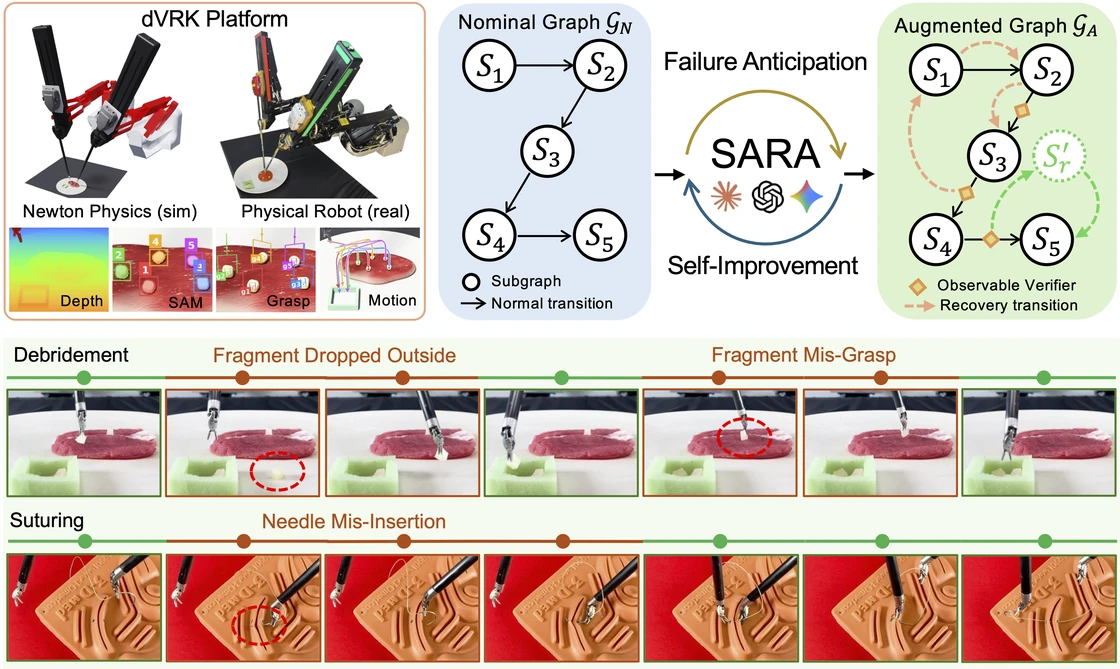
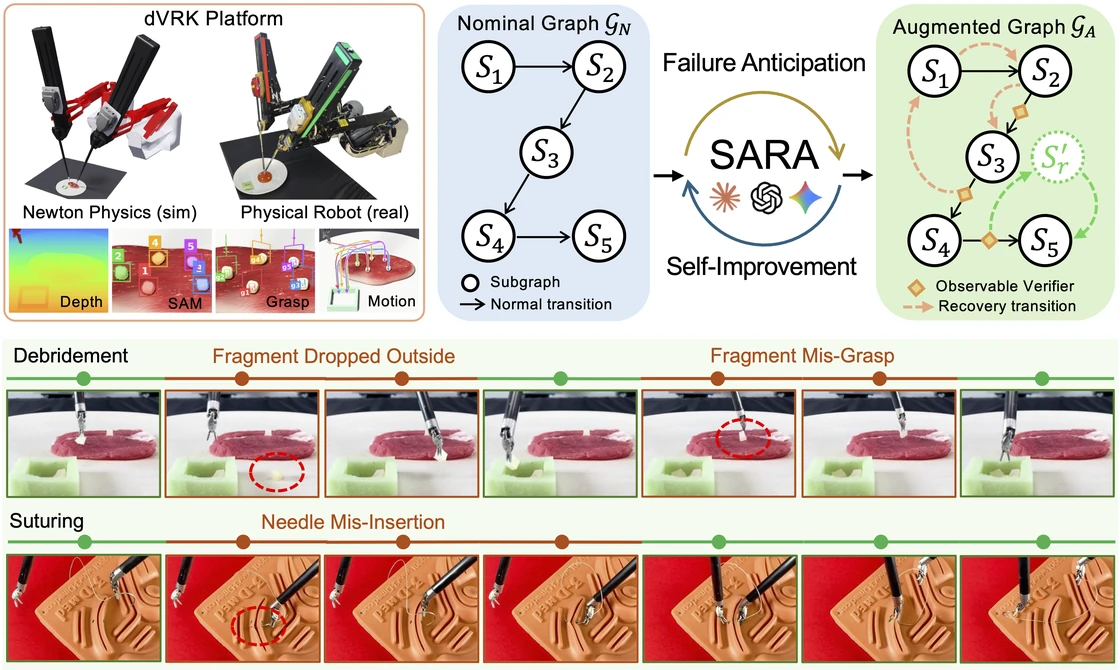
Update SARA overview to latest figure

diff --git a/index.html b/index.html
@@ -14,18 +14,18 @@
 <meta property="og:title" content="SARA: Toward Surgical Agentic Robotics for Resilient Manipulation">
 <meta property="og:description" content="SARA anticipates failure modes, synthesizes observable verifiers, and plans recovery chains for resilient surgical manipulation in simulation and on the physical dVRK platform.">
 <meta property="og:url" content="https://surgical-robotics.github.io/SARA/">
-<meta property="og:image" content="https://surgical-robotics.github.io/SARA/static/images/abstract.png?v=bd32adec929a">
+<meta property="og:image" content="https://surgical-robotics.github.io/SARA/static/images/abstract.png?v=1d7a672f9828">
 <meta name="twitter:card" content="summary_large_image">
 <meta name="twitter:title" content="SARA: Toward Surgical Agentic Robotics for Resilient Manipulation">
 <meta name="twitter:description" content="SARA anticipates failure modes, synthesizes observable verifiers, and plans recovery chains for resilient surgical manipulation in simulation and on the physical dVRK platform.">
-<meta name="twitter:image" content="https://surgical-robotics.github.io/SARA/static/images/abstract.png?v=bd32adec929a">
+<meta name="twitter:image" content="https://surgical-robotics.github.io/SARA/static/images/abstract.png?v=1d7a672f9828">
 <meta name="citation_title" content="SARA: Toward Surgical Agentic Robotics for Resilient Manipulation">
 <!-- Add confirmed authors, venue, paper URL, and final BibTeX when available. -->
 <link rel="stylesheet" href="static/css/index.css?v=active-group-nav-31">
 <script defer src="static/js/index.js?v=eager-buffer-visible-playback-7"></script>
 <script defer src="static/js/video-states.js?v=deferred-sources-12"></script>
 <script defer src="static/js/media-controls.js?v=6"></script>
-<script type="application/ld+json">{"@context": "https://schema.org", "@type": "ScholarlyArticle", "headline": "SARA: Toward Surgical Agentic Robotics for Resilient Manipulation", "description": "SARA anticipates failure modes, synthesizes observable verifiers, and plans recovery chains for resilient surgical manipulation in simulation and on the physical dVRK platform.", "url": "https://surgical-robotics.github.io/SARA/", "image": "https://surgical-robotics.github.io/SARA/static/images/abstract.png?v=bd32adec929a"}</script>
+<script type="application/ld+json">{"@context": "https://schema.org", "@type": "ScholarlyArticle", "headline": "SARA: Toward Surgical Agentic Robotics for Resilient Manipulation", "description": "SARA anticipates failure modes, synthesizes observable verifiers, and plans recovery chains for resilient surgical manipulation in simulation and on the physical dVRK platform.", "url": "https://surgical-robotics.github.io/SARA/", "image": "https://surgical-robotics.github.io/SARA/static/images/abstract.png?v=1d7a672f9828"}</script>
 </head>
 <body>
 <div class="reading-progress" aria-hidden="true"><span></span></div>
@@ -52,7 +52,7 @@
 <section class="section overview" id="abstract"><div class="container">
 <div class="section-heading"><h2>Abstract</h2></div>
 <div class="abstract-copy"><p>Augmented dexterity promises to relieve surgeon workload and improve surgical performance, yet it still requires expert algorithmic engineering for each manipulation task. Can emerging coding agents deliver augmented dexterity across tasks, while remaining reliable under failure? In this work, we introduce SARA (Surgical Agent for Resilient Autonomy), an agentic surgical robotics framework that executes diverse manipulation tasks autonomously and resiliently. Given a nominal task graph composed of reusable surgical skills, SARA proactively anticipates how the skills may fail and induces those failures in a physics-based sandbox. From the induced and naturally occurring failures, it writes observable verifiers for the skills and proposes failure-specific recovery strategies, either by re-executing upstream skills of the nominal graph or by escalating to the broader skill library. SARA then rehearses the candidate augmented graph in the sandbox, refining the ineffective strategies in a self-improvement loop, and retains only the validated verifiers and recoveries in the final augmented graph. We evaluate SARA on 8 surgical tasks in Newton-based simulation and 6 tasks on a physical da Vinci robot.</p></div>
-<figure class="research-figure"><button class="figure-zoom" type="button" data-image="static/images/abstract.png?v=bd32adec929a" aria-label="Enlarge SARA system overview"><img src="static/images/abstract-1120.webp?v=76807648c444" srcset="static/images/abstract-1120.webp?v=76807648c444 1120w, static/images/abstract-2240.webp?v=4c3684035b65 2240w" sizes="(max-width: 760px) calc(100vw - 36px), (max-width: 1184px) calc(100vw - 64px), 1120px" alt="SARA system overview: a nominal surgical skill graph is augmented with observable verifiers and recovery chains through failure anticipation and self-improvement in the Newton dVRK sandbox. Debridement and suturing sequences show recovery from dropped fragments, missed grasps, and needle insertion failures on the physical robot." width="2240" height="1338" loading="eager" fetchpriority="high" decoding="async"><span class="zoom-hint">Enlarge figure ↗</span></button><figcaption><strong>SARA surgical agentic system overview.</strong> Starting from a nominal graph <math aria-label="G subscript N"><msub><mi>𝒢</mi><mi>N</mi></msub></math> of reusable surgical skills, SARA proactively anticipates failure modes, synthesizes observable verifiers, and plans corresponding recovery chains to construct an augmented directed graph <math aria-label="G subscript A"><msub><mi>𝒢</mi><mi>A</mi></msub></math>. Through iterative self-improvement and validation in a Newton physics-based dVRK sandbox, SARA retains validated verifiers and recovery chains before deploying the augmented graph on the physical dVRK platform for resilient task execution. The debridement and suturing sequences illustrate recovery from dropped fragments, missed grasps, and needle insertion failures.</figcaption></figure>
+<figure class="research-figure"><button class="figure-zoom" type="button" data-image="static/images/abstract.png?v=1d7a672f9828" aria-label="Enlarge SARA system overview"><img src="static/images/abstract-1120.webp?v=a01de6e5ae43" srcset="static/images/abstract-1120.webp?v=a01de6e5ae43 1120w, static/images/abstract-2240.webp?v=9f9784721626 2240w" sizes="(max-width: 760px) calc(100vw - 36px), (max-width: 1184px) calc(100vw - 64px), 1120px" alt="SARA system overview: a nominal surgical skill graph is augmented with observable verifiers and recovery chains through failure anticipation and self-improvement in the Newton dVRK sandbox. Debridement and suturing sequences show recovery from dropped fragments, missed grasps, and needle insertion failures on the physical robot." width="2240" height="1340" loading="eager" fetchpriority="high" decoding="async"><span class="zoom-hint">Enlarge figure ↗</span></button><figcaption><strong>SARA surgical agentic system overview.</strong> Starting from a nominal graph <math aria-label="G subscript N"><msub><mi>𝒢</mi><mi>N</mi></msub></math> of reusable surgical skills, SARA proactively anticipates failure modes, synthesizes observable verifiers, and plans corresponding recovery chains to construct an augmented directed graph <math aria-label="G subscript A"><msub><mi>𝒢</mi><mi>A</mi></msub></math>. Through iterative self-improvement and validation in a Newton physics-based dVRK sandbox, SARA retains validated verifiers and recovery chains before deploying the augmented graph on the physical dVRK platform for resilient task execution. The debridement and suturing sequences illustrate recovery from dropped fragments, missed grasps, and needle insertion failures.</figcaption></figure>
 </div></section>
 <section class="section method-section" id="method"><div class="container">
 <p class="method-question">Can emerging coding agents deliver augmented dexterity across diverse surgical tasks and remain reliable when failures occur?</p>

diff --git a/README.md b/README.md
@@ -115,7 +115,7 @@ question introduces Method: "Can emerging coding agents deliver augmented dexter
 across diverse surgical tasks and remain reliable when failures occur?" The question shares
 the figure's full width, with justified text and no bold emphasis. The updated overview
 figure appears in full, including the debridement and suturing failure-recovery
-sequences. Responsive 1120px/2240px WebP previews (approximately 142/336 KB) load
+sequences. Responsive 1120px/2240px WebP previews (approximately 140/338 KB) load
 eagerly with high priority instead of the 5.3 MB PNG. The previews preserve the
 source color profile. Clicking first shows the cached preview, then replaces it
 with the original full-resolution image once loaded. Method also uses responsive
@@ -190,7 +190,7 @@ All other intervals show normal execution.
 
 ## Media preparation
 
-- Overview original: `static/images/abstract.png` (3709×2216; loaded on zoom and used by social metadata).
+- Overview original: `static/images/abstract.png` (3714×2222; loaded on zoom and used by social metadata).
 - Overview previews: `static/images/abstract-1120.webp` and `static/images/abstract-2240.webp` (responsive, content-versioned URLs).
 - Method original: `static/images/sara_pipeline.png` (8737×4335, preserved for zoom).
 - Method previews: `static/images/sara_pipeline-1120.webp` and `static/images/sara_pipeline-2240.webp` (responsive, content-versioned URLs).
